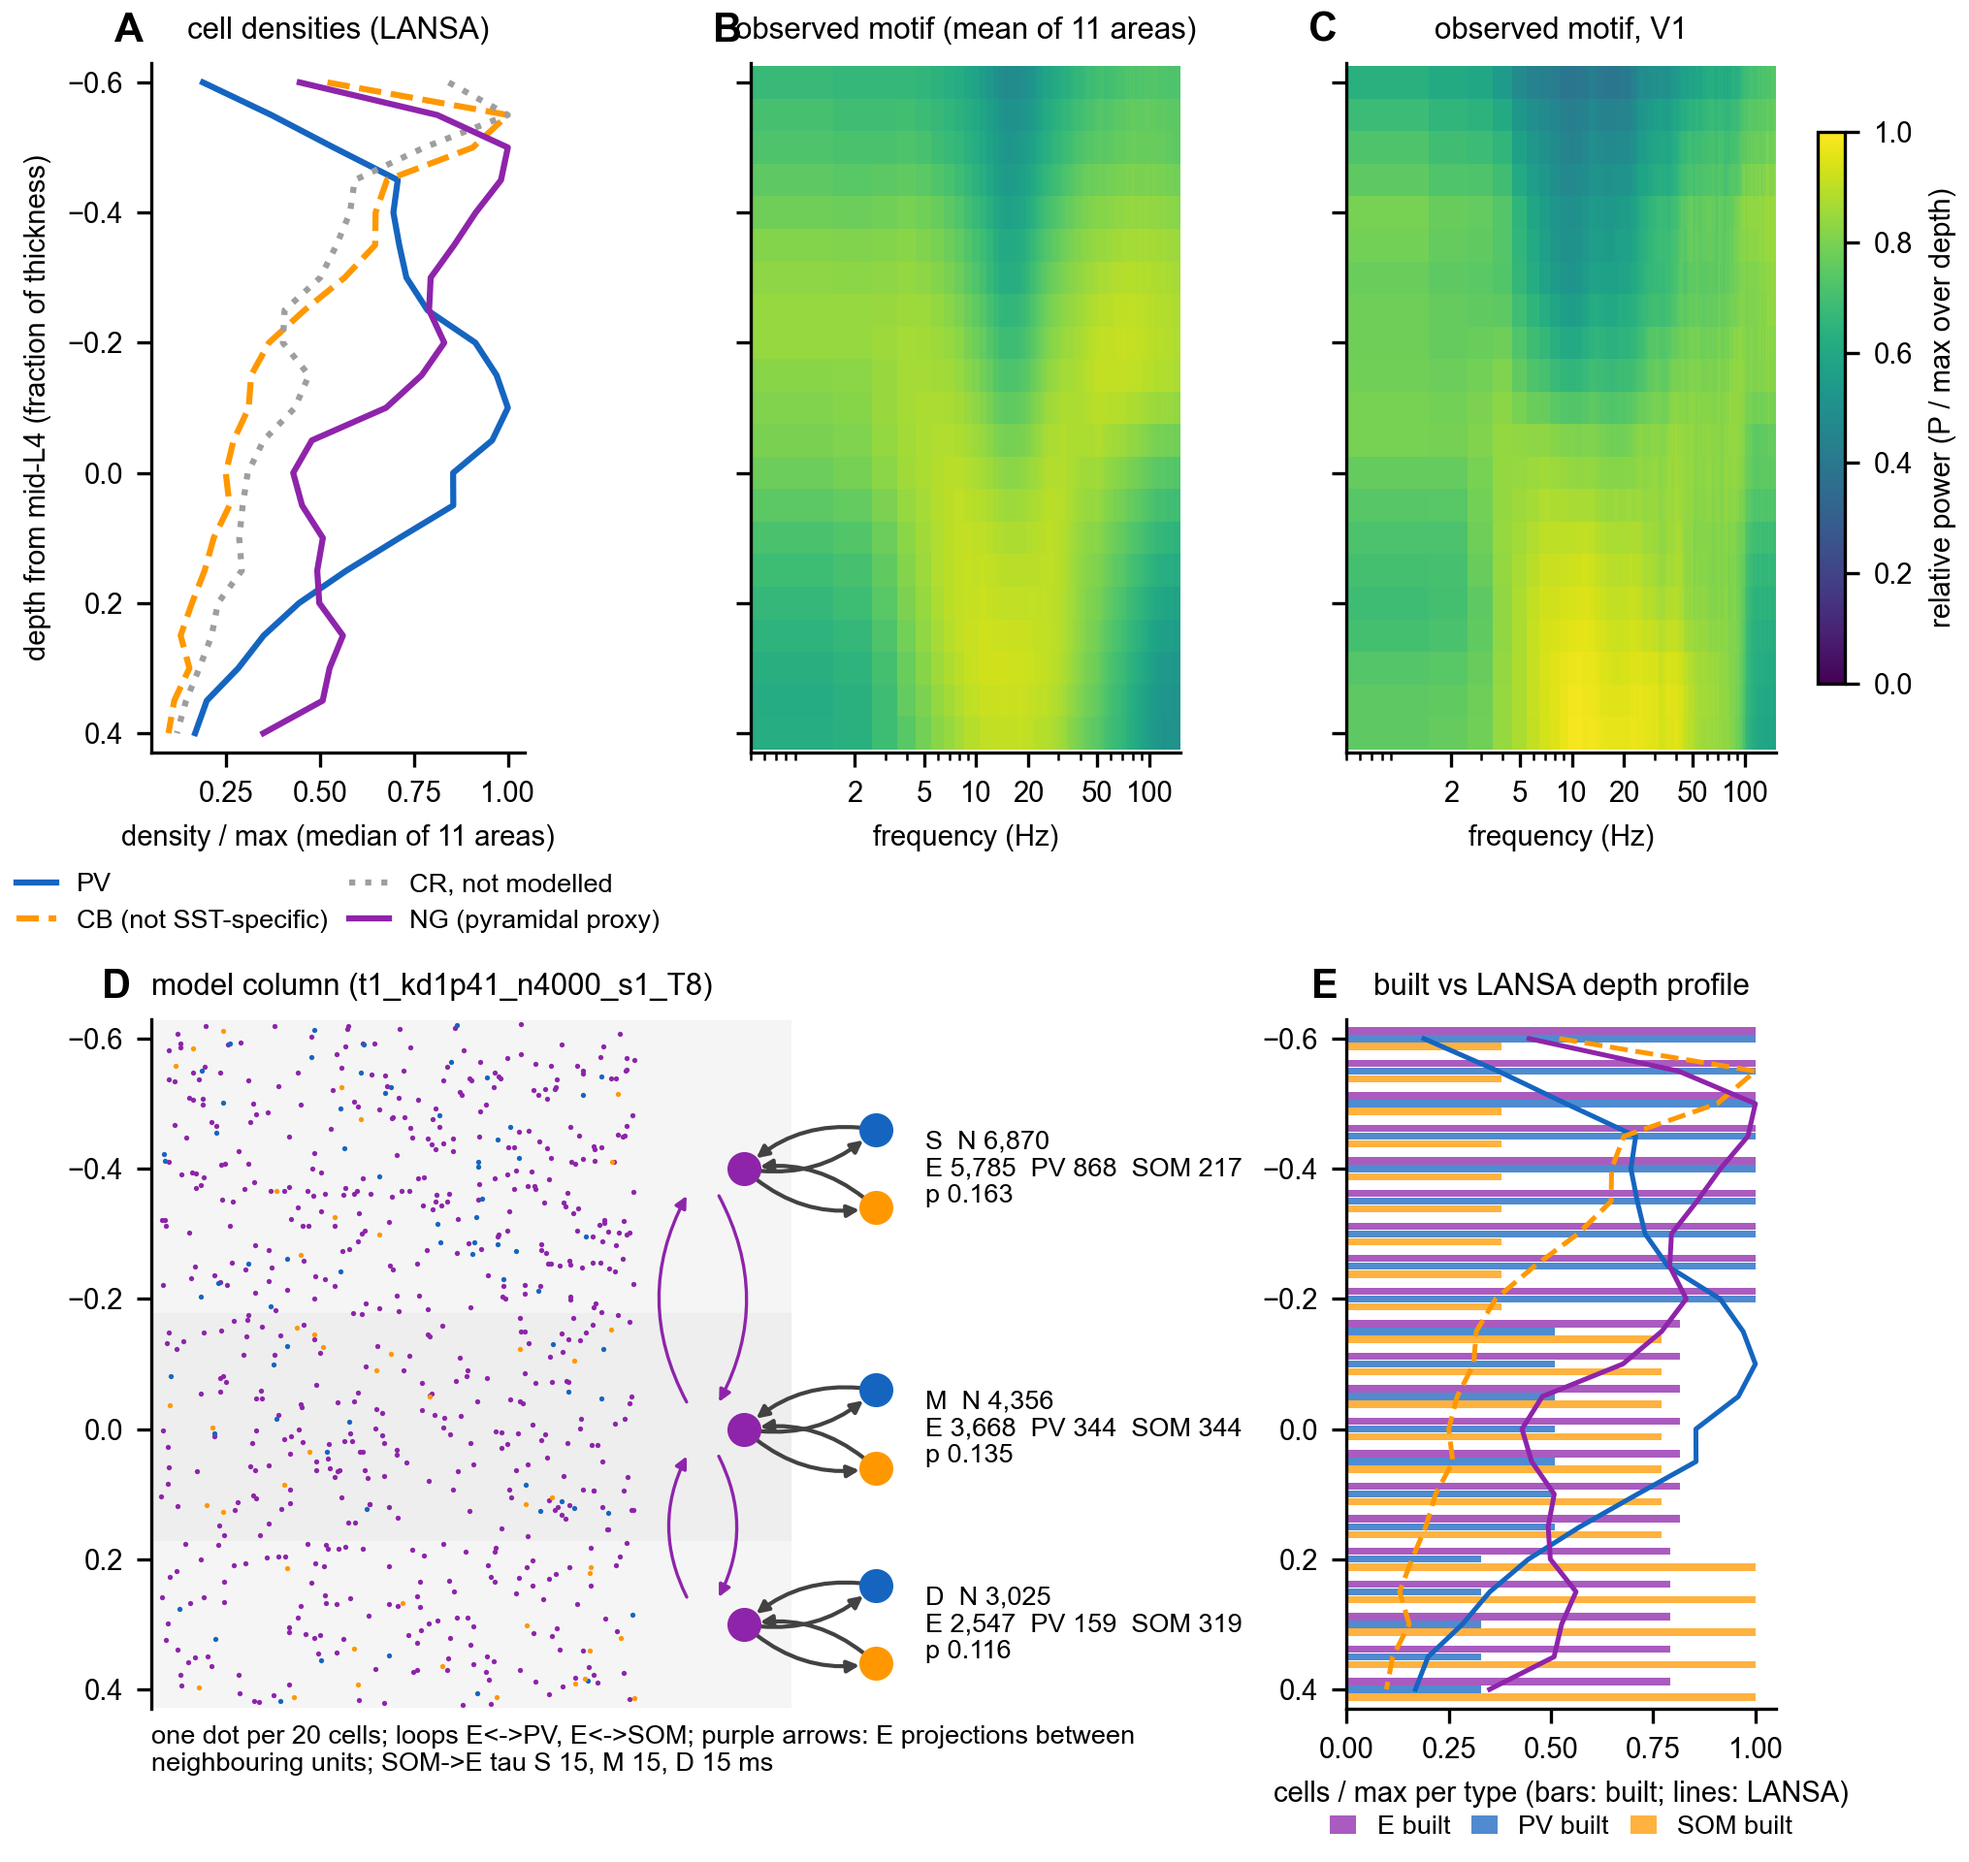
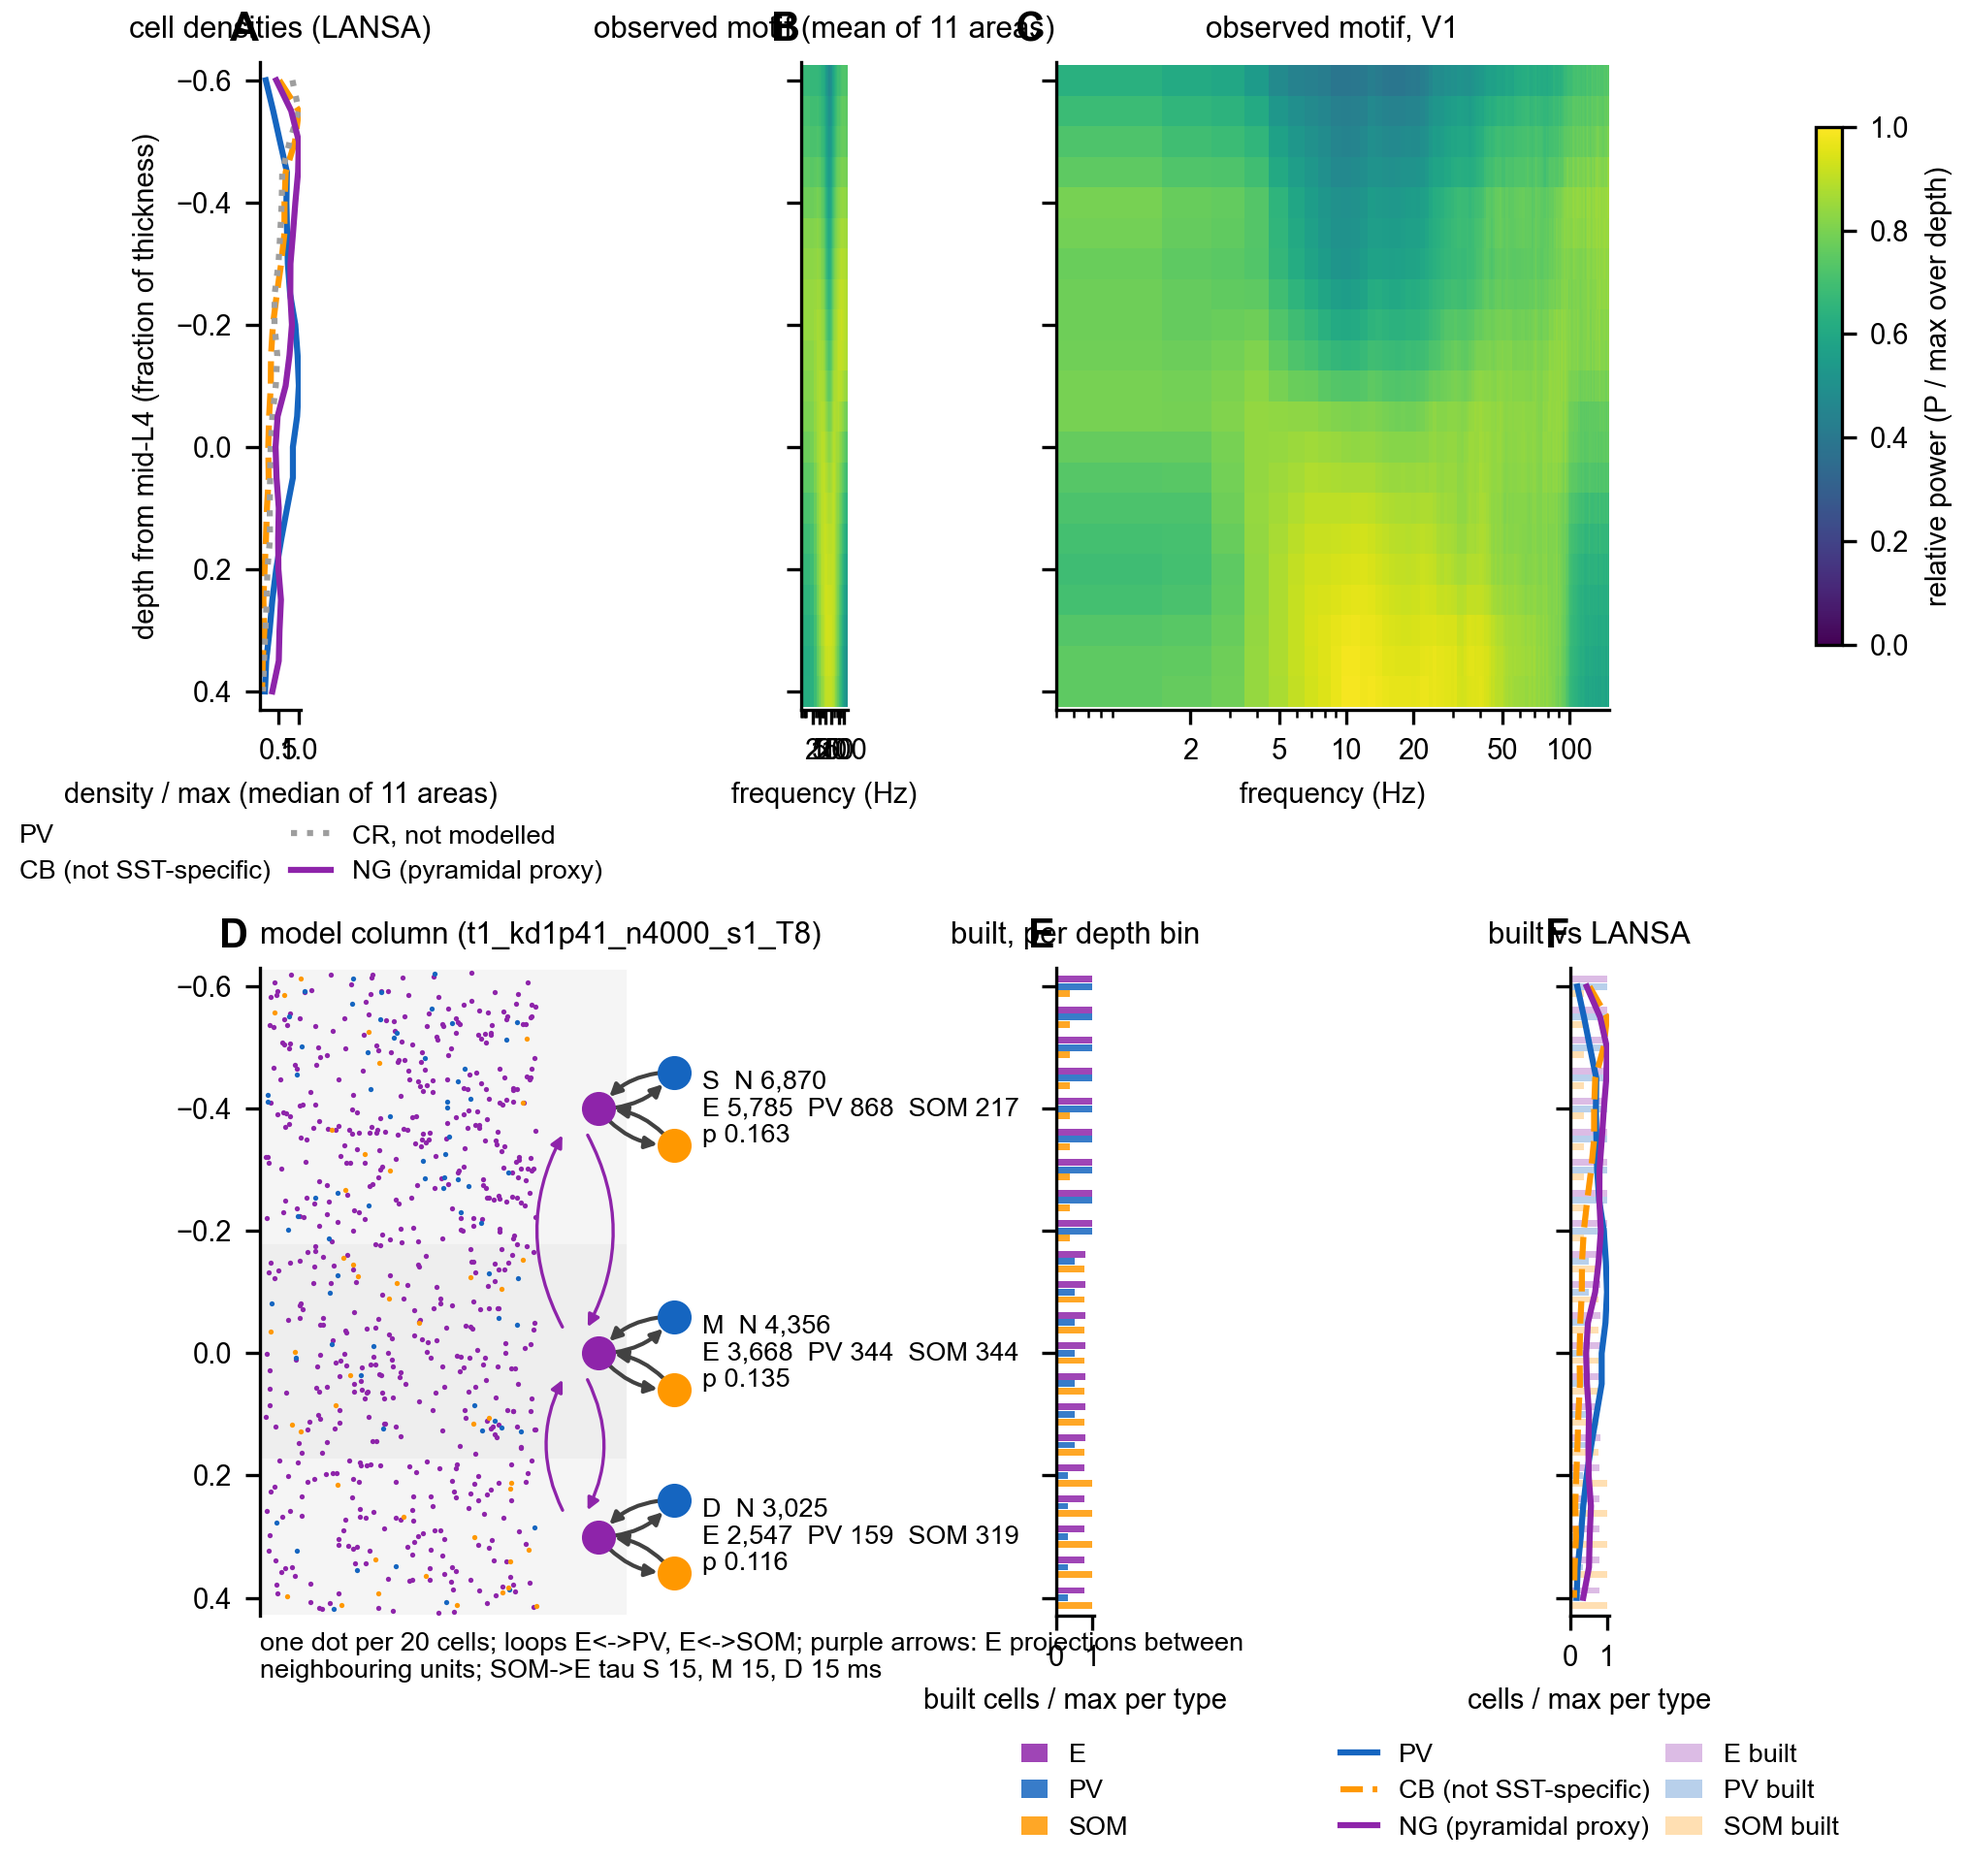
Phase A3: split Fig 1E into built counts (E) and the built-vs-LANSA comparison (F)
E overlaid three bars and three lines on one narrow 2.6 in panel, six series against two colour keys; the caption had to tell the reader which colour to compare with which. E now carries the built counts alone; F carries the same bars at alpha 0.30 against the LANSA lines, on its own panel and one colour key.

Layout goes from a 2 x 3 grid to 2 x 4 (C spans columns 3-4, D spans 1-2), canvas held at the 6.7677 in text width so the scale stays 1.000. A first attempt nested a second gridspec over the first and produced mislabelled, overlapping panels; it was discarded after inspecting the render, not kept.

Caption updated to describe E and F separately. Build: 35 pages, 0 undefined, 0 overfull, 0 float-too-large. D6 re-hashed; 158/158 verify.

diff --git a/scripts/e2_circuit_schema.py b/scripts/e2_circuit_schema.py
@@ -79,7 +79,8 @@ def main(tag: str, out: Path = OUT) -> Path:
     plt.rcParams.update({"font.size": PT, "font.family": ["Arial", "Helvetica", "DejaVu Sans"],
                          "axes.spines.top": False, "axes.spines.right": False, "pdf.fonttype": 42})
     fig = plt.figure(figsize=(6.7677, 6.4), constrained_layout=True)  # text width 489.10307 pt: scale 1.000 at print
-    gs = fig.add_gridspec(2, 3, width_ratios=[1, 1.15, 1.15])
+    # 2 x 4: top A | B | C (C spans two columns), bottom D spanning two | E | F
+    gs = fig.add_gridspec(2, 4, width_ratios=[1, 1.15, 0.95, 0.95])
     # A: densities
     ax = fig.add_subplot(gs[0, 0])
     for i, t in enumerate(types):
@@ -94,7 +95,7 @@ def main(tag: str, out: Path = OUT) -> Path:
     # B, C: observed maps
     axb = fig.add_subplot(gs[0, 1], sharey=ax)
     _map(axb, Y.mean(axis=2), z, "observed motif (mean of 11 areas)")
-    axc = fig.add_subplot(gs[0, 2], sharey=ax)
+    axc = fig.add_subplot(gs[0, 2:4], sharey=ax)
     im = _map(axc, Y[:, :, areas.index("V1")], z, "observed motif, V1")
     for a in (axb, axc):
         a.tick_params(labelleft=False)
@@ -140,21 +141,31 @@ def main(tag: str, out: Path = OUT) -> Path:
     axd.set_xlabel(f"one dot per {DOT} cells; loops E<->PV, E<->SOM; purple arrows: E projections between\n"
                    f"neighbouring units; SOM->E tau {', '.join(f'{k} {v:g}' for k, v in taus.items())} ms",
                    fontsize=PT - 0.5, loc="left")
-    # E: built vs LANSA depth profile per type
-    axe = fig.add_subplot(gs[1, 2], sharey=ax)
+    # E: built cell counts. F: the same built profiles against the LANSA lines, one colour per type.
     bp = built_profile(rec, z)
     off = {"E": -0.012, "PV": 0.0, "SOM": 0.012}
+    axe = fig.add_subplot(gs[1, 2], sharey=ax)
     for t, col in TYPE_COLOR.items():
-        axe.barh(z + off[t], bp[t] / bp[t].max(), height=0.011, color=col, alpha=0.75, label=f"{t} built")
+        axe.barh(z + off[t], bp[t] / bp[t].max(), height=0.011, color=col, alpha=0.85, label=t)
+    axe.set_xlabel("built cells / max per type")
+    axe.set_title("built, per depth bin", fontsize=PT + 0.5)
+    axe.tick_params(labelleft=False)
+    axe.legend(frameon=False, fontsize=PT - 0.5, loc="upper center", bbox_to_anchor=(0.5, -0.16), ncol=1,
+               handlelength=1, columnspacing=0.6)
+    axf = fig.add_subplot(gs[1, 3], sharey=ax)
+    for t, col in TYPE_COLOR.items():
+        axf.barh(z + off[t], bp[t] / bp[t].max(), height=0.011, color=col, alpha=0.30, lw=0,
+                 label=f"{t} built")
     for i, t in enumerate(types):
         if t in LANSA_TO_MODEL:
             lab, col, ls = LANSA_STYLE[t]
-            axe.plot(Xm[:, i] / Xm[:, i].max(), z, color=col, ls=ls, lw=1.2)
-    axe.set_xlabel("cells / max per type (bars: built; lines: LANSA)")
-    axe.set_title("built vs LANSA depth profile", fontsize=PT + 0.5)
-    axe.legend(frameon=False, fontsize=PT - 0.5, loc="upper center", bbox_to_anchor=(0.5, -0.12), ncol=3,
-               handlelength=1, columnspacing=0.8)
-    for a, letter in zip((ax, axb, axc, axd, axe), "ABCDE"):
+            axf.plot(Xm[:, i] / Xm[:, i].max(), z, color=col, ls=ls, lw=1.5, label=lab)
+    axf.set_xlabel("cells / max per type")
+    axf.set_title("built vs LANSA", fontsize=PT + 0.5)
+    axf.tick_params(labelleft=False)
+    axf.legend(frameon=False, fontsize=PT - 0.5, loc="upper center", bbox_to_anchor=(0.5, -0.16), ncol=2,
+               handlelength=1.4, columnspacing=0.6)
+    for a, letter in zip((ax, axb, axc, axd, axe, axf), "ABCDEF"):
         a.text(-0.02, 1.02, letter, transform=a.transAxes, fontsize=10, fontweight="bold", ha="right", va="bottom")
     out.mkdir(parents=True, exist_ok=True)
     path = out / f"{tag}_schema.png"

diff --git a/paper/jomission_lansa/sections/results.tex b/paper/jomission_lansa/sections/results.tex
@@ -31,9 +31,10 @@ against depth, median of 11 areas, each marker divided by its maximum and labell
 SST-specific; CR is not modelled; NG is the pyramidal proxy). B, C: observed relative power (power divided by its
 maximum over depth at each frequency), mean of the 11 areas and V1. D: the in-degree setting later selected in T1
 ($B = 1.41$, SOM$\to$E 15 ms) as built, one dot per 20 cells in each unit's depth bins, with the within-unit
-E$\leftrightarrow$PV and E$\leftrightarrow$SOM loops and the inter-unit E projections. E: built cells per type
-and depth bin (bars) against the LANSA profiles (lines), each divided by its own maximum; read each colour's bars
-against the line of the same colour.}
+E$\leftrightarrow$PV and E$\leftrightarrow$SOM loops and the inter-unit E projections. E: built cells per type and
+depth bin, each type divided by its own maximum. F: the same built profiles (filled bars) against the LANSA
+profiles (lines) on one axis, so each colour's bars are read against the line of the same colour; the SOM bars sit
+against the imposed ramp, not against CB.}
 \label{fig:schema}
 \end{figure}
 
